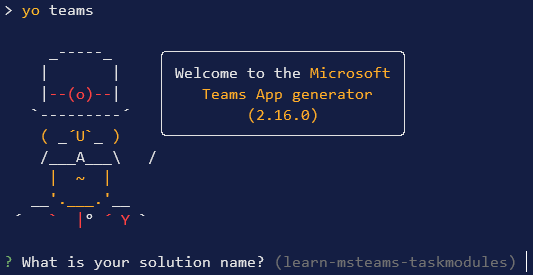
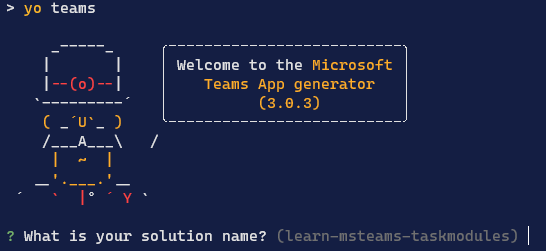
AdaptiveCards - EngagingMessages - FY21Q3 refresh
- run through all exercise steps in associated MSLearn module to validate good working order
- updated steps & fixed typos where necessary
- implement changes per Acrolinx feedback
- any & all users/names/company names/pictures/IDs are not real people/tenants... all are from M365 demo tenants provided by Microsoft

diff --git a/learn-m365-pr/m365-developer/adaptive-cards-create-engaging-messages/includes/7-exercise-microsoft-teams.md b/learn-m365-pr/m365-developer/adaptive-cards-create-engaging-messages/includes/7-exercise-microsoft-teams.md
@@ -25,7 +25,7 @@ You'll use Node.js to create custom Microsoft Teams tabs in this module. The exe
 - NPM (installed with Node.js) - v6.\* (or higher)
 - [Gulp](https://gulpjs.com/) - v4.\* (or higher)
 - [Yeoman](https://yeoman.io/) - v3.\* (or higher)
-- [Yeoman Generator for Microsoft Teams](https://github.com/OfficeDev/generator-teams) - v2.16\* (or higher)
+- [Yeoman Generator for Microsoft Teams](https://github.com/OfficeDev/generator-teams) - v3.0\* (or higher)
 - [Visual Studio Code](https://code.visualstudio.com)
 
 You must have the minimum versions of these prerequisites installed on your workstation.
@@ -49,15 +49,12 @@ Yeoman will launch and ask you a series of questions. Answer the questions with 
 - **Title of your Microsoft Teams App project?**: Adaptive Cards Task Modules
 - **Your (company) name? (max 32 characters)**: Contoso
 - **Which manifest version would you like to use?**: v1.8
-- **Enter your Microsoft Partner ID, if you have one?**: (Leave blank to skip)
+- **Quick scaffolding**: Yes
 - **What features do you want to add to your project?**: A Tab
 - **The URL where you will host this solution?**: (Accept the default option)
 - **Would you like to show a loading indicator when your app/tab loads?** No
-- **Would you like personal apps to be rendered without a tab header-bar?** No
-- **Would you like to include Test framework and initial tests?**: No
-- **Would you like to use Azure Applications Insights for telemetry?**: No
 - **Default Tab name? (max 16 characters)**: YouTube Player 
-- **Do you want to create a configurable or static tab?**: Static
+- **What kind of Tab would you like to create?**: Personal (static)
 - **Do you require Azure AD Single-Sign-On support for the tab?** No
 
 > [!NOTE]
@@ -136,7 +133,7 @@ Next, stop the local web server by pressing <kbd>CTRL</kbd>+<kbd>C</kbd> in the 
 
 Now you can implement the user interface for the tab. The simple tab will have a basic interface.
 
-Locate and open the file that contains the React component used in the project: **./src/app/scripts/youTubePlayerTab/YouTubePlayerTab.tsx**.
+Locate and open the file that contains the React component used in the project: **./src/client/youTubePlayerTab/YouTubePlayerTab.tsx**.
 
 Update the import statements in this file to add components from the Fluent UI - React library. Find the following import statement at the top of the file that imports components from the Fluent UI - React library:
 
@@ -147,104 +144,56 @@ import { Provider, Flex, Text, Button, Header } from "@fluentui/react-northstar"
 Replace the previous statement with the following import statement:
 
 ```typescript
-import {
-  Provider,
-  Flex,
-  Text,
-  Button,
-  Header,
-  ThemePrepared,
-  teamsTheme,
-  teamsDarkTheme,
-  teamsHighContrastTheme,
-  Input
-} from "@fluentui/react-northstar";
+import { Provider, Flex, Text, Button, Header, Input } from "@fluentui/react-northstar";
 ```
 
-Update the state of the component to contain a list of items and a property for a new item. Locate the `IYouTubePlayerTabState` interface in the **YouTubePlayerTab.tsx** file and add the following properties to it:
+Update the state of the component to contain a video id. Add the following statement after the existing `useState` statements in the `YouTubePlayerTab` function:
 
 ```typescript
-teamsTheme: ThemePrepared;
-youTubeVideoId: string;
+const [youTubeVideoId, setYouTubeVideoId] = useState<string | undefined>("jugBQqE_2sM");
 ```
 
-Add the following method to the `YouTubePlayerTab` class that updates the component state to the theme that matches the currently selected Microsoft Teams client theme:
+Add the following methods to the `YouTubePlayerTab` component. These methods will handle updating the state when specific events happen on the form you'll add to the component:
 
 ```typescript
-private updateComponentTheme = (currentThemeName: string = "default"): void => {
-  let theme: ThemePrepared;
+let onChangeVideo = (): void => { 
+};
 
-  switch (currentThemeName) {
-    case "default":
-      theme = teamsThemes;
-      break;
-    case "dark":
-      theme = teamsDarkTheme;
-      break;
-    case "contrast":
-      theme = teamsHighContrastTheme;
-      break;
-    default:
-      theme = teamsTheme;
-      break;
-  }
-  // update the state
-  this.setState(Object.assign({}, this.state, {
-    teamsTheme: theme
-  }));
-}
+let onShowVideo = ():  void => {
+};
 ```
 
-Initialize the current theme and state of the component. Locate the line `this.updateTheme(this.getQueryVariable("theme"));` and replace it with the following code in the `componentWillMount()` method:
-
-```typescript
-this.updateComponentTheme(this.getQueryVariable("theme"));
-this.setState(Object.assign({}, this.state, {
-  youTubeVideoId: "jugBQqE_2sM"
-}));
-```
-
-Within the `componentWillMount()` method, locate the following line:
-
-```typescript
-microsoftTeams.registerOnThemeChangeHandler(this.updateTheme);
-```
-
-This code registers an event handler to update the component's theme to match the theme of the current Microsoft Teams client when this page is loaded as a tab. Update this line to call the new handler in the following line to register another handler to update the component theme:
-
-```typescript
-microsoftTeams.registerOnThemeChangeHandler(this.updateComponentTheme);
-```
-
-With the theme management and state initialized, we can now implement the user interface.
-
-Locate the `render()` method and update the return statement to the following code. The `render()` method will now display the list of items in our state out with a brief copyright statement:
+Locate the `return` statement and update to the following code. The component will now display the state with a brief copyright statement:
 
 ```tsx
-public render() {
-  return (
-    <Provider theme={this.state.teamsTheme}>
-      <Flex column gap="gap.smaller">
+return (
+  <Provider theme={theme}>
+    <Flex fill={true} column styles={{
+      padding: ".8rem 0 .8rem .5rem"
+    }}>
+      <Flex.Item>
         <Header>Task Module Demo</Header>
-        <Text>YouTube Video ID:</Text>
-        <Input value={this.state.youTubeVideoId} disabled></Input>
-        <Button content="Change Video ID" onClick={this.onChangeVideo}></Button>
-        <Button content="Show Video" primary onClick={this.onShowVideo}></Button>
-        <Text content="(C) Copyright Contoso" size="smallest"></Text>
-      </Flex>
-    </Provider>
-  );
-}
-```
-
-Finally, add some interactivity to the tab. Add the following methods to the `YouTubePlayerTab` class. These methods will handle updating the state when specific events happen on the form you'll add to the component:
-
-```typescript
-private onShowVideo = (event: React.MouseEvent<HTMLButtonElement>): void => {
-}
-
-private onChangeVideo = (event: React.MouseEvent<HTMLButtonElement>): void => {
-}
+      </Flex.Item>
+      <Flex.Item>
+        <div>
+          <div>
+            <Text>YouTube Video ID:</Text>
+            <Input value={this.state.youTubeVideoId} disabled></Input>
+          </div>
+          <div>
+            <Button content="Change Video ID" onClick={this.onChangeVideo}></Button>
+            <Button content="Show Video" primary onClick={this.onShowVideo}></Button>
+          </div>
+        </div>
+      </Flex.Item>
+      <Flex.Item styles={{
+        padding: ".8rem 0 .8rem .5rem"
+      }}>
+        <Text content="(C) Copyright Contoso" size="smaller"></Text>
+      </Flex.Item>
+    </Flex>
+  </Provider>
+);
 ```
 
 ### Test the personal tab
@@ -269,7 +218,7 @@ Now you can update the project and add task modules to the custom Microsoft Team
 
 ## Add video player task module
 
-A task module can be a web page implemented with HTML and JavaScript. Create the video player task module by creating a new file, **player.html** in the **./src/app/web/youTubePlayerTab** folder in your project.
+A task module can be a web page implemented with HTML and JavaScript. Create the video player task module by creating a new file, **player.html** in the **./src/public/youTubePlayerTab** folder in your project.
 
 Add the following HTML to the **player.html** file:
 
@@ -329,12 +278,12 @@ Implement the `<iframe>` embedded video player by adding the following JavaScrip
 
 Now, implement the task module in the personal tab.
 
-Locate and open the **./src/app/scripts/YouTubePlayerTab/YouTubePlayerTab.tsx** file.
+Locate and open the **./src/client/youTubePlayerTab/YouTubePlayerTab.tsx** file.
 
 First, add the following utility method to the `YouTubePlayerTab` class:
 
 ```typescript
-private appRoot(): string {
+const appRoot = (): string => {
   if (typeof window === "undefined") {
     return "https://{{HOSTNAME}}";
   } else {
@@ -346,15 +295,15 @@ private appRoot(): string {
 Next, add the following code to the `onShowVideo` method:
 
 ```typescript
-private onShowVideo = (event: React.MouseEvent<HTMLButtonElement>): void => {
+const onShowVideo = (): void => {
   const taskModuleInfo = {
     title: "YouTube Player",
-    url: this.appRoot() + `/youTubePlayerTab/player.html?vid=${this.state.youTubeVideoId}`,
+    url: appRoot() + `/youTubePlayerTab/player.html?vid=${youTubeVideoId}`,
     width: 1000,
     height: 700
   };
   microsoftTeams.tasks.startTask(taskModuleInfo);
-}
+};
 ```
 
 This code will create a new `taskInfo` object with the details of the task module. It will then launch the task module. This task module does nothing but display information, so we don't need to implement the callback.
@@ -375,7 +324,7 @@ Stop the local web server by pressing <kbd>CTRL</kbd>+<kbd>C</kbd> in the consol
 
 ## Add a task module rendered using an Adaptive Card
 
-Create a new JSON file, **YouTubeSelectorCard.json**, in the following folder in the existing project **./src/app/scripts/youTubePlayerTab/**. Add the following JSON to it. This JSON defines the Adaptive Card used to collect the ID the YouTube video to display:
+Create a new JSON file, **YouTubeSelectorCard.json**, in the following folder in the existing project **./src/client/youTubePlayerTab/**. Add the following JSON to it. This JSON defines the Adaptive Card used to collect the ID the YouTube video to display:
 
 ```json
 {
@@ -423,12 +372,12 @@ Create a new JSON file, **YouTubeSelectorCard.json**, in the following folder in
 
 After creating the Adaptive Card, the next step is to create a task module that will display it and handle the submission action.
 
-Within the existing Microsoft Teams app project, locate the file **./src/app/scripts/youTubePlayerTab/YouTubePlayerTab.tsx** that contains the custom personal tab.
+Within the existing Microsoft Teams app project, locate the file **./src/client/youTubePlayerTab/YouTubePlayerTab.tsx** that contains the custom personal tab.
 
-Next, update the existing `onChangeVideo` handler in `YouTubePlayerTab` class to contain the following code:
+Update the existing `onChangeVideo` handler in `YouTubePlayerTab` class to contain the following code:
 
 ```typescript
-private onChangeVideo = (event: React.MouseEvent<HTMLButtonElement>): void => {
+const onChangeVideo = (): void => {
   const taskModuleInfo = {
     title: "YouTube Video Selector",
     width: 350,
@@ -439,7 +388,7 @@ private onChangeVideo = (event: React.MouseEvent<HTMLButtonElement>): void => {
   };
 
   microsoftTeams.tasks.startTask(taskModuleInfo, submitHandler);
-}
+};
 ```
 
 The first step is to load the Adaptive Card and set the value of the video ID to display when it loads. Do this by adding the following code to the top of the `onChangeVideo()` method:
@@ -452,7 +401,7 @@ adaptiveCard.body.forEach((container: any) => {
   if (container.type === "Container") {
     container.items.forEach((item: any) => {
       if (item.id && item.id === "youTubeVideoId") {
-        item.value = this.state.youTubeVideoId;
+        item.value = youTubeVideoId;
       }
     });
   }
@@ -462,9 +411,9 @@ adaptiveCard.body.forEach((container: any) => {
 Next, implement the callback. When the Adaptive Card executes the submit action, it will send an object back with all the input objects as properties. Add the following code to the existing `submitHandler()` in the `onChangeVideo()` function. This code will update the state with the value of the video ID specified in the Adaptive Card:
 
 ```typescript
-this.setState(Object.assign({}, this.state, {
-  youTubeVideoId: result.youTubeVideoId
-}));
+const submitHandler = (err: string, result: any): void => {
+  setYouTubeVideoId(result.youTubeVideoId);
+};
 ```
 
 Lastly, add a new `card` property to the `taskModuleInfo` object, and set its value to the adaptive card. The resulting `taskModuleInfo` should look like the following code:

diff --git a/learn-m365-pr/m365-developer/adaptive-cards-create-engaging-messages/includes/5-exercise-outlook-actionable-messages.md b/learn-m365-pr/m365-developer/adaptive-cards-create-engaging-messages/includes/5-exercise-outlook-actionable-messages.md
@@ -24,14 +24,12 @@ Select **Manage > App registrations** in the left-hand navigation.
 
 On the **App registrations** page, select **New registration**.
 
-  ![Screenshot of App Registrations page](../media/05-azure-ad-portal-new-app-00.png)
-
 On the **Register an application** page, set the values as follows:
 
 - **Name**: Adaptive Card Mailer
 - **Supported account types**: Accounts in this organizational directory only (Contoso only - Single tenant)
 
-    ![Screenshot of the Register an application page](../media/05-azure-ad-portal-new-app-01.png)
+  ![Screenshot of App Registrations page](../media/05-azure-ad-portal-new-app-00.png)
 
     Select **Register**.
 
@@ -506,7 +504,7 @@ npm init -y
 Install the required dependencies for the project by running the following command. This will install packages used to run project:
 
 ```console
-npm install adaptivecards-templating@0.1.1-alpha.1 axios base64url body-parser debug dotenv express jsonwebtoken morgan rsa-pem-from-mod-exp typescript -S
+npm install adaptivecards-templating adaptive-expressions axios base64url body-parser debug dotenv express jsonwebtoken morgan rsa-pem-from-mod-exp typescript -S
 ```
 
 Install the following packages used during development of the project by running the following command.
@@ -912,17 +910,18 @@ express.post('/api/card', (request: Express.Request, response: Express.Response,
       feedback.push(feedbackResponse);
 
       // create data structure for Adaptive Card
-      let cardData = new ACData.EvaluationContext();
-      cardData.$root = {
-        average_rating: feedback
+      let cardData: ACData.IEvaluationContext = {
+        $root : {
+          average_rating: feedback
           .map((feedbackReply) => {
             return feedbackReply.rating
           })
           .reduce((total, rating) => {
             return total + rating;
           }, 0) / feedback.length,
-        feedback: feedback,
-        total_responses: feedback.length
+          feedback: feedback,
+          total_responses: feedback.length
+        }
       };
 
       // load the template Adaptive Card response
@@ -958,16 +957,16 @@ Add the Adaptive Card template to the project by creating a new file **response-
     },
     {
       "type": "TextBlock",
-      "text": "Thank you for providing your feedback. Overall the webinar has an **average rating of {average_rating}** with a total of **{total_responses} people responding**.\n\nSome of the recently comments we've received include the following:",
+      "text": "Thank you for providing your feedback. Overall the webinar has an **average rating of ${average_rating}** with a total of **${total_responses} people responding**.\n\nSome of the recently comments we've received include the following:",
       "wrap": true
     },
     {
       "type": "FactSet",
       "facts": [
         {
-          "$data": "{feedback}",
-          "title": "{name}",
-          "value": "({rating}) {comment}"
+          "$data": "${feedback}",
+          "title": "${name}",
+          "value": "(${rating}) ${comment}"
         }
       ],
       "separator": true,

diff --git a/learn-m365-pr/m365-developer/adaptive-cards-create-engaging-messages/includes/2-overview-create-cards.md b/learn-m365-pr/m365-developer/adaptive-cards-create-engaging-messages/includes/2-overview-create-cards.md
@@ -48,7 +48,7 @@ If you're an app developer who wants to tap into an ecosystem of third-party con
 
 ## Adaptive Card schema
 
-The current version of the Adaptive Card schema is v1.2. All elements in the [Adaptive Card Schema Explorer](https://adaptivecards.io/explorer/AdaptiveCard.html) display the version when they were introduced to the schema. Developers should note what elements are supported in specific schema versions because some application hosts may not currently support the latest version of the schema.
+The current version of the Adaptive Card schema is v1.3. All elements in the [Adaptive Card Schema Explorer](https://adaptivecards.io/explorer/AdaptiveCard.html) display the version when they were introduced to the schema. Developers should note what elements are supported in specific schema versions because some application hosts may not currently support the latest version of the schema.
 
 The schema is broken up into multiple categories:
 

diff --git a/learn-m365-pr/m365-developer/adaptive-cards-create-engaging-messages/includes/4-cards-outlook-actionable-messages.md b/learn-m365-pr/m365-developer/adaptive-cards-create-engaging-messages/includes/4-cards-outlook-actionable-messages.md
@@ -63,6 +63,9 @@ While DKIM and SPF are sufficient for some scenarios, that solution won't work i
 
 DKIM and SPF are industry standard ways to prove a sender's identity when sending emails over SMTP. Many companies already implement these standards to secure the emails they're already sending. To learn more about SPF/DKIM and how to implement them, see:
 
+- [DomainKeys Identified Mail (DKIM)](https://tools.ietf.org/html/rfc5585)
+- [Sender Policy Framework](https://en.wikipedia.org/wiki/Sender_Policy_Framework)
+
 #### Signed card payloads
 
 Actionable messages sent via email support an alternative verification method: signing the card payload with an RSA key or X509 certificate. This method is required in the following scenarios:
